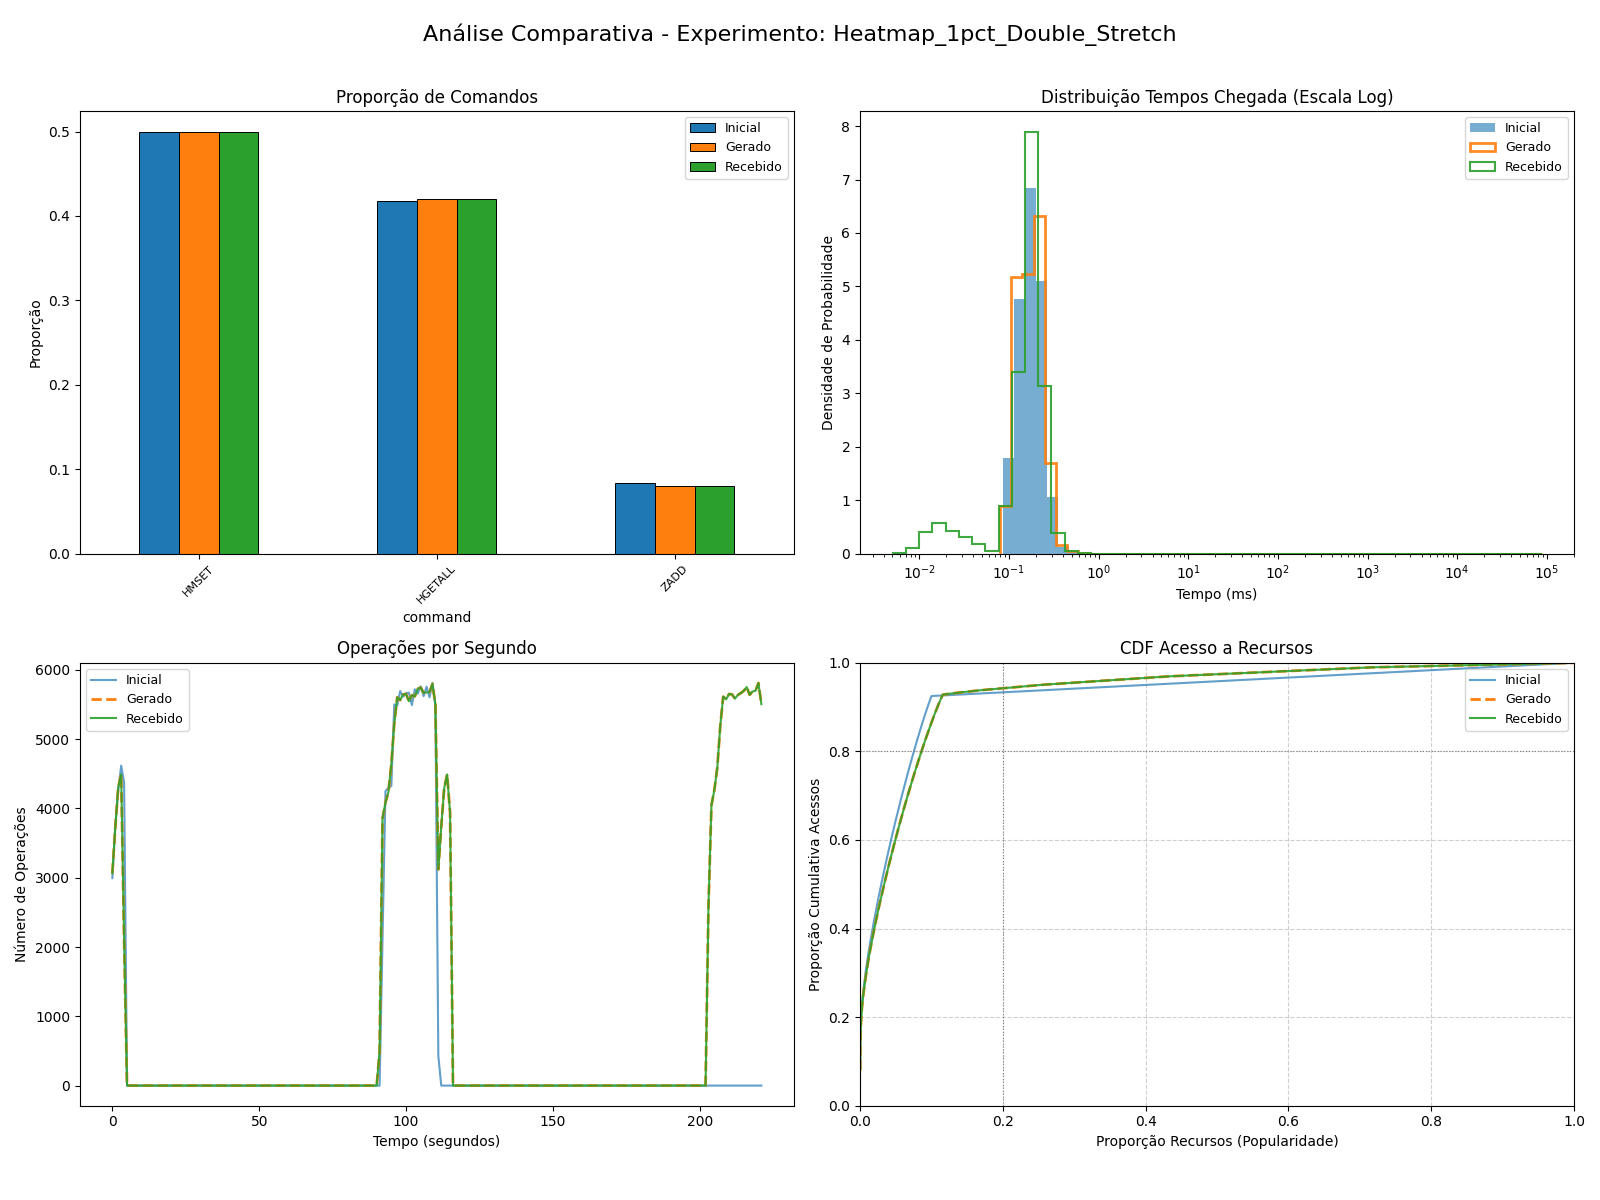
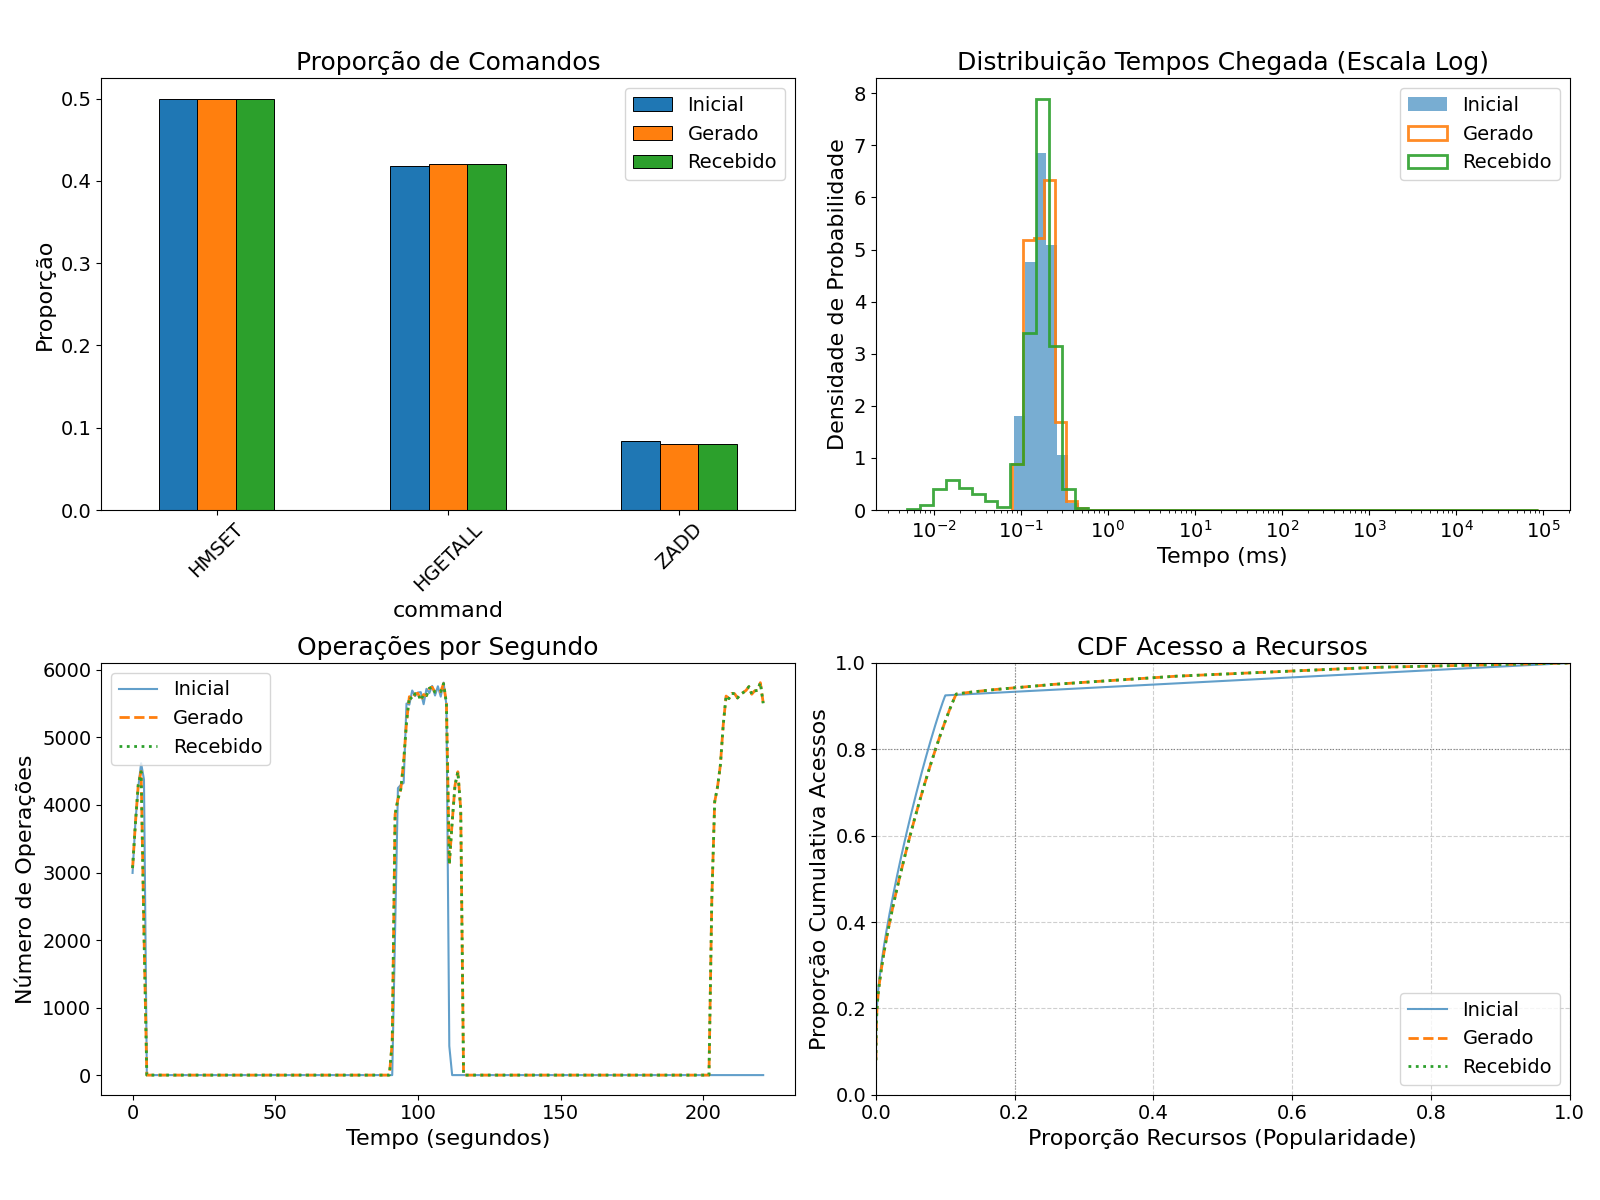
Add new analysis results and updated output images

diff --git a/analisys.py b/analisys.py
@@ -80,16 +80,24 @@ def calculate_metrics(df: pd.DataFrame, name: str):
 
     print("-" * 30)
 
+
 def plot_combined_comparisons(logs: Dict[str, Optional[pd.DataFrame]], experiment_name: str, path, valor):
+    """
+    Gera e salva UMA figura contendo os 4 gráficos comparativos
+    para os logs analisados (Inicial, Gerado, Recebido).
+    """
     print(f"\nGerando gráfico combinado para o experimento: {experiment_name}...")
 
-    # --- Definição de Fontes ---
-    TITLE_FONTSIZE = 18       # Título principal da figura
-    SUBPLOT_TITLE_FONTSIZE = 16 # Títulos dos 4 subplots
-    AXIS_LABEL_FONTSIZE = 14  # Labels 'Tempo (ms)', 'Proporção', etc.
-    LEGEND_FONTSIZE = 12      # Legenda (Inicial, Gerado, Recebido)
-    TICK_LABEL_FONTSIZE = 12  # Números nos eixos (0.0, 0.2, 10-1, etc.)
+    # --- ATUALIZADO: Definição de Fontes (Valores Aumentados) ---
+    TITLE_FONTSIZE = 20       # Título principal da figura (era 18)
+    SUBPLOT_TITLE_FONTSIZE = 18 # Títulos dos 4 subplots (era 16)
+    AXIS_LABEL_FONTSIZE = 16  # Labels 'Tempo (ms)', 'Proporção', etc. (era 14)
+    LEGEND_FONTSIZE = 14      # Legenda (Inicial, Gerado, Recebido) (era 12)
+    TICK_LABEL_FONTSIZE = 14  # Números nos eixos (0.0, 0.2, 10-1, etc.) (era 12)
+    # --- FIM DA ATUALIZAÇÃO ---
 
+
+    # --- Mapa de estilos com linha pontilhada para 'Recebido' ---
     style_map = {
         'Inicial': {
             'color': 'C0', # Azul
@@ -108,8 +116,16 @@ def plot_combined_comparisons(logs: Dict[str, Optional[pd.DataFrame]], experimen
         }
     }
     default_style = style_map['Inicial']
+    # --- FIM DO MAPA DE ESTILOS ---
+
 
     fig, axes = plt.subplots(2, 2, figsize=(16, 12))
+
+    # Fonte do Título Principal
+    # Removido título principal para dar mais espaço aos subplots e evitar sobreposição
+    # fig.suptitle(f'Análise Comparativa - Experimento: {experiment_name}', fontsize=TITLE_FONTSIZE)
+
+    # --- Gráfico 1: Comparação da Proporção de Comandos (axes[0, 0]) ---
     ax1 = axes[0, 0]
     all_commands = set()
     plot_data_g1 = {}
@@ -249,15 +265,24 @@ def plot_combined_comparisons(logs: Dict[str, Optional[pd.DataFrame]], experimen
         ax4.tick_params(axis='both', labelsize=TICK_LABEL_FONTSIZE)
 
     # Ajusta espaçamento geral e salva a figura combinada
-    plt.tight_layout(rect=[0, 0.03, 1, 0.97])
+    plt.tight_layout(rect=[0, 0.03, 1, 0.97]) # Mantido rect para margem inferior
 
     # Cria um nome de arquivo seguro
     safe_exp_name = "".join(c if c.isalnum() else "_" for c in experiment_name)
-    output_filename = f'{path}/test{valor}.png'
+    # ATENÇÃO: Verifique se o nome do arquivo deve incluir 'valor' ou 'safe_exp_name'
+    output_filename = f'{path}/test{valor}.png' # Usando 'valor' como no seu código original
+    # Alternativa: output_filename = f'{path}/comparacao_combinada_{safe_exp_name}.png'
+
     plt.savefig(output_filename)
     print(f"Salvo: {output_filename}")
     plt.close(fig) # Fecha a figura
 
+# ==============================================================================
+# FIM DA FUNÇÃO
+# ==============================================================================
+# ==============================================================================
+# FIM DA FUNÇÃO
+# ==============================================================================
 if __name__ == '__main__':
     current_experiment_name = 'Heatmap_1pct_Double_Stretch'
 
